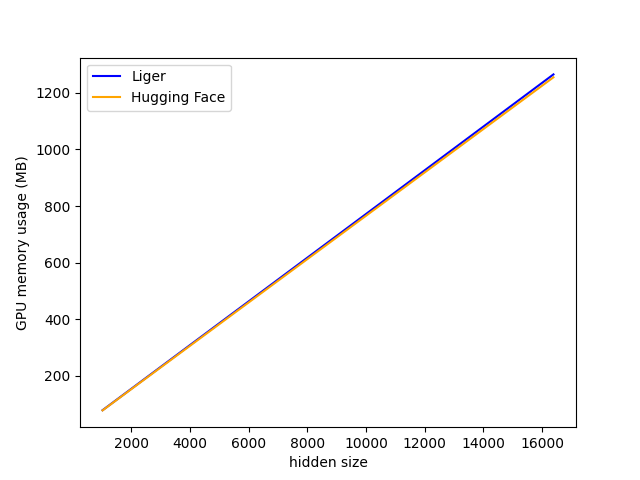
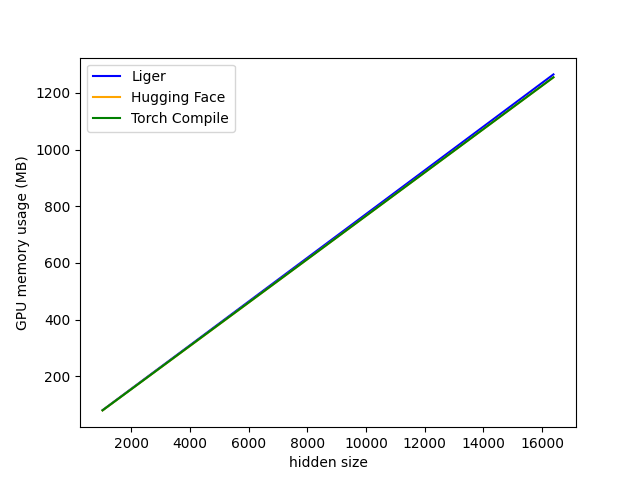
comments + profile against triton

diff --git a/benchmark/benchmark_layer_norm.py b/benchmark/benchmark_layer_norm.py
@@ -7,6 +7,7 @@ from utils import _print_memory_banner, _print_speed_banner, _test_memory
 from liger_kernel.transformers.layer_norm import LigerLayerNorm
 
 
+# NOTE: For torch compile, we will just use default inductor settings. No further customization
 @triton.testing.perf_report(
     [
         triton.testing.Benchmark(
@@ -14,9 +15,9 @@ from liger_kernel.transformers.layer_norm import LigerLayerNorm
             x_vals=[2**i for i in range(10, 15)],
             xlabel="hidden size",
             line_arg="provider",
-            line_vals=["liger", "huggingface"],
-            line_names=["Liger", "Hugging Face"],
-            styles=[("blue", "solid"), ("orange", "solid")],
+            line_vals=["liger", "huggingface", "torch_compile"],
+            line_names=["Liger", "Hugging Face", "Torch Compile"],
+            styles=[("blue", "solid"), ("orange", "solid"), ("green", "solid")],
             ylabel="time (ms)",
             plot_name="layernorm-fwd-speed-benchmark",
             args={"M": 4096, "dtype": torch.float32, "mode": "forward"},
@@ -26,9 +27,9 @@ from liger_kernel.transformers.layer_norm import LigerLayerNorm
             x_vals=[2**i for i in range(10, 15)],
             xlabel="hidden size",
             line_arg="provider",
-            line_vals=["liger", "huggingface"],
-            line_names=["Liger", "Hugging Face"],
-            styles=[("blue", "solid"), ("orange", "solid")],
+            line_vals=["liger", "huggingface", "torch_compile"],
+            line_names=["Liger", "Hugging Face", "Torch Compile"],
+            styles=[("blue", "solid"), ("orange", "solid"), ("green", "solid")],
             ylabel="time (ms)",
             plot_name="layernorm-full-speed-benchmark",
             args={"M": 4096, "dtype": torch.float32, "mode": "full"},
@@ -39,6 +40,7 @@ def bench_speed_layer_norm(M, N, dtype, provider, mode, eps=1e-6, device="cuda")
     x_shape = (M, N)
     triton_ln = LigerLayerNorm(hidden_size=N).to("cuda")
     torch_ln = torch.nn.LayerNorm(N, eps=eps).to("cuda")
+    torch_compile_ln = torch.compile(torch_ln)
 
     x = torch.randn(x_shape, dtype=dtype, device="cuda")
     dy = torch.randn_like(x)
@@ -50,6 +52,8 @@ def bench_speed_layer_norm(M, N, dtype, provider, mode, eps=1e-6, device="cuda")
             return triton_ln(x)
         if provider == "huggingface":
             return torch_ln(x)
+        if provider == "torch_compile":
+            return torch_compile_ln(x)
 
     if mode == "forward":
         ms, min_ms, max_ms = triton.testing.do_bench(
@@ -94,9 +98,9 @@ def benchmark_speed_layer_norm_wrapper():
             x_vals=[2**i for i in range(10, 15)],
             xlabel="hidden size",
             line_arg="provider",
-            line_vals=["liger", "huggingface"],
-            line_names=["Liger", "Hugging Face"],
-            styles=[("blue", "solid"), ("orange", "solid")],
+            line_vals=["liger", "huggingface", "torch_compile"],
+            line_names=["Liger", "Hugging Face", "Torch Compile"],
+            styles=[("blue", "solid"), ("orange", "solid"), ("green", "solid")],
             ylabel="GPU memory usage (MB)",
             plot_name="layernorm-full-memory-benchmark",
             args={"M": 4096, "dtype": torch.float32, "mode": "full"},
@@ -108,6 +112,7 @@ def bench_memory_layer_norm(M, N, dtype, provider, mode, eps=1e-6, device="cuda"
 
     triton_ln = LigerLayerNorm(hidden_size=N).to("cuda")
     torch_ln = torch.nn.LayerNorm(N, eps=eps).to("cuda")
+    torch_compile_ln = torch.compile(torch_ln)
 
     x = torch.randn(x_shape, dtype=dtype, device="cuda")
     dy = torch.randn_like(x)
@@ -118,6 +123,8 @@ def bench_memory_layer_norm(M, N, dtype, provider, mode, eps=1e-6, device="cuda"
             return triton_ln(x)
         if provider == "huggingface":
             return torch_ln(x)
+        if provider == "torch_compile":
+            return torch_compile_ln(x)
 
     def full():
         y = y_fwd()

diff --git a/src/liger_kernel/ops/layer_norm.py b/src/liger_kernel/ops/layer_norm.py
@@ -24,18 +24,18 @@ else:
 
 @triton.jit
 def _layer_norm_forward(
-    Y_ptr,
-    Y_row_stride,
-    X_ptr,
-    X_row_stride,
-    W_ptr,
-    W_row_stride,
-    B_ptr,
-    B_row_stride,
-    Mean_ptr,
-    Mean_row_stride,
-    RSTD_ptr,
-    RSTD_row_stride,
+    Y_ptr,  # pointer to output, shape (n_rows, n_cols)
+    Y_row_stride,  # stride of each row in output
+    X_ptr,  # pointer to input, shape (n_rows, n_cols)
+    X_row_stride,  # stride of each row in input
+    W_ptr,  # pointer to weights, shape (n_cols,)
+    W_row_stride,  # stride of each row in weights
+    B_ptr,  # pointer to bias, shape (n_cols,)
+    B_row_stride,  # stride of each row in bias
+    Mean_ptr,  # pointer to mean, shape (n_rows,)
+    Mean_row_stride,  # stride of each row in mean
+    RSTD_ptr,  # pointer to rstd, shape (n_rows,)
+    RSTD_row_stride,  # stride of each row in rstd
     n_cols,
     eps,
     BLOCK_SIZE: tl.constexpr,
@@ -68,19 +68,19 @@ def _layer_norm_forward(
 
 @triton.jit
 def _layer_norm_backward(
-    X_ptr,
-    W_ptr,
-    Mean_ptr,
-    RSTD_ptr,
-    DX_ptr,
-    DW_ptr,
-    DB_ptr,
-    DY_ptr,
-    stride_x,
-    stride_dx,
-    stride_dw,
-    stride_db,
-    stride_dy,
+    X_ptr,  # pointer to input, shape (n_rows, n_cols)
+    W_ptr,  # pointer to weights, shape (n_cols,)
+    Mean_ptr,  # pointer to mean, shape (n_rows,)
+    RSTD_ptr,  # pointer to rstd, shape (n_rows,)
+    DX_ptr,  # pointer to input grad, shape (n_rows, n_cols)
+    DW_ptr,  # pointer to weights grad, shape (n_cols,)
+    DB_ptr,  # pointer to bias grad, shape (n_cols,)
+    DY_ptr,  # pointer to output grad, shape (n_rows, n_cols)
+    stride_x,  # stride of each row in input
+    stride_dx,  # stride of each row in input grad
+    stride_dw,  # stride of each row in weights grad
+    stride_db,  # stride of each row in bias grad
+    stride_dy,  # stride of each row in output grad
     n_rows,
     n_cols,
     rows_per_program,
@@ -104,11 +104,11 @@ def _layer_norm_backward(
     DY_ptr += row_start * stride_dy
 
     for _ in range(row_start, row_end):
-        x = tl.load(X_ptr + cols, mask=mask, other=0.0).to(tl.float32)
-        w = tl.load(W_ptr + cols, mask=mask, other=0.0).to(tl.float32)
-        dy = tl.load(DY_ptr + cols, mask=mask, other=0.0).to(tl.float32)
-        mean = tl.load(Mean_ptr).to(tl.float32)
-        rstd = tl.load(RSTD_ptr).to(tl.float32)
+        x = tl.load(X_ptr + cols, mask=mask, other=0.0)
+        w = tl.load(W_ptr + cols, mask=mask, other=0.0)
+        dy = tl.load(DY_ptr + cols, mask=mask, other=0.0)
+        mean = tl.load(Mean_ptr)
+        rstd = tl.load(RSTD_ptr)
 
         x_hat = (x - mean) * rstd
         wdy = w * dy
@@ -146,7 +146,7 @@ class LigerLayerNormFunction(torch.autograd.Function):
 
         assert (
             X.shape[1] == W.shape[0]
-        ), "Incompatible hidden size dimension between tensor1.shape[1] and tensor2.shape[0]"
+        ), f"Incompatible hidden size dimension between input tensor with shape[1] = {X.shape[1]} and weight tensor with shape[0] = {W.shape[0]}"
 
         _layer_norm_forward[(n_rows,)](
             Y,
@@ -181,11 +181,6 @@ class LigerLayerNormFunction(torch.autograd.Function):
         dY = dY.view(-1, dim)
         X, W, B, Mean, RSTD = ctx.saved_tensors
         n_rows, n_cols = dY.shape
-
-        assert X.stride(-1) == 1
-        assert W.stride(-1) == 1
-        assert Mean.stride(-1) == 1
-        assert RSTD.stride(-1) == 1
 
         DX = torch.empty((n_rows, n_cols), dtype=X.dtype, device=X.device)
         sm_count = torch.cuda.get_device_properties(X.device).multi_processor_count
